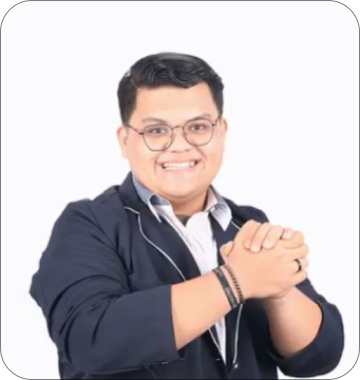
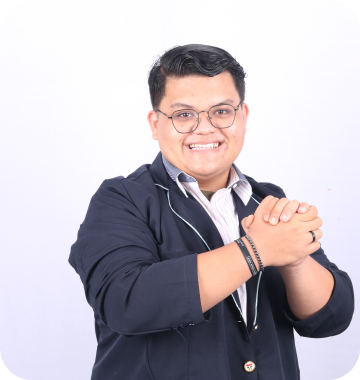
update foto kementrian

diff --git a/html/kementrian.html b/html/kementrian.html
@@ -67,7 +67,7 @@
                 </div>
                 <div class="content-box">
                     <div class="card">
-                        <img src="/assets/images/andika.jpg" alt="Andika" class="card-img-top" />
+                        <img src="/assets/images/kementrian-presma.png" alt="Andika" class="card-img-top" />
                         <div class="card-body">
                             <h5 class="card-title">VERRY BOHAL IMMANUEL SIMATUPANG</h5>
                             <p class="card-text">PRESIDEN MAHASISWA</p>
@@ -75,7 +75,7 @@
                     </div>
                     <div class="card hide"></div>
                     <div class="card">
-                        <img src="/assets/images/andika.jpg" alt="Andika" class="card-img-top" />
+                        <img src="/assets/images/kementrian-wapresma.png" alt="Andika" class="card-img-top" />
                         <div class="card-body">
                             <h5 class="card-title">BRIAN DANIEL PURBA</h5>
                             <p class="card-text">WAKIL PRESIDEN MAHASISWA</p>
@@ -84,21 +84,21 @@
 
                     <!--  -->
                     <div class="card">
-                        <img src="/assets/images/andika.jpg" alt="Andika" class="card-img-top" />
+                        <img src="/assets/images/kementrian-1.png" alt="Andika" class="card-img-top" />
                         <div class="card-body">
                             <h5 class="card-title">DIAN MAHARANI</h5>
                             <p class="card-text">SEKRETARIS KABINET 1</p>
                         </div>
                     </div>
                     <div class="card">
-                        <img src="/assets/images/andika.jpg" alt="Andika" class="card-img-top" />
+                        <img src="/assets/images/kementrian-2.png" alt="Andika" class="card-img-top" />
                         <div class="card-body">
                             <h5 class="card-title">ANNISA</h5>
                             <p class="card-text">MENTERI KOORDINATOR KEUANGAN</p>
                         </div>
                     </div>
                     <div class="card">
-                        <img src="/assets/images/andika.jpg" alt="Andika" class="card-img-top" />
+                        <img src="/assets/images/kementrian-3.png" alt="Andika" class="card-img-top" />
                         <div class="card-body">
                             <h5 class="card-title">RACHMA CAHYANINGSIH</h5>
                             <p class="card-text">BENDAHARA</p>
@@ -107,21 +107,21 @@
                     <!--  -->
 
                     <div class="card">
-                        <img src="/assets/images/andika.jpg" alt="Andika" class="card-img-top" />
+                        <img src="/assets/images/kementrian-4.png" alt="Andika" class="card-img-top" />
                         <div class="card-body">
                             <h5 class="card-title">ALFAN DIDAN SEPTIANDRI ARGANDI</h5>
                             <p class="card-text">MENTERI KOORDINATOR RELASI PUBLIK</p>
                         </div>
                     </div>
                     <div class="card">
-                        <img src="/assets/images/andika.jpg" alt="Andika" class="card-img-top" />
+                        <img src="/assets/images/kementrian-5.png" alt="Andika" class="card-img-top" />
                         <div class="card-body">
                             <h5 class="card-title">RIDHO NASHIRUDDIN</h5>
                             <p class="card-text">MENTERI KOORDINATOR PENGEMBANGAN SUMBER DAYA MANUSIA</p>
                         </div>
                     </div>
                     <div class="card">
-                        <img src="/assets/images/andika.jpg" alt="Andika" class="card-img-top" />
+                        <img src="/assets/images/kementrian-6.png" alt="Andika" class="card-img-top" />
                         <div class="card-body">
                             <h5 class="card-title">ANDY CHRYSANTO CAHYADI</h5>
                             <p class="card-text">MENTERI KOORDINATOR MEDIA DAN KOMUNIKASI</p>
@@ -130,21 +130,21 @@
                     <!--  -->
 
                     <div class="card">
-                        <img src="/assets/images/andika.jpg" alt="Andika" class="card-img-top" />
+                        <img src="/assets/images/kementrian-7.png" alt="Andika" class="card-img-top" />
                         <div class="card-body">
                             <h5 class="card-title">SHELVIA RESTI PRAMUDITA</h5>
                             <p class="card-text">MENTERI EKONOMI KREATIF</p>
                         </div>
                     </div>
                     <div class="card">
-                        <img src="/assets/images/andika.jpg" alt="Andika" class="card-img-top" />
+                        <img src="/assets/images/kementrian-8.png" alt="Andika" class="card-img-top" />
                         <div class="card-body">
                             <h5 class="card-title">AHMAD THORIQ ALFATAN</h5>
                             <p class="card-text">MENTERI ADVOKASI DAN KAJIAN AKSI STRATEGIS</p>
                         </div>
                     </div>
                     <div class="card">
-                        <img src="/assets/images/andika.jpg" alt="Andika" class="card-img-top" />
+                        <img src="/assets/images/kementrian-9.png" alt="Andika" class="card-img-top" />
                         <div class="card-body">
                             <h5 class="card-title">DIDA HAIMAN IRTSA</h5>
                             <p class="card-text">MENTERI LUAR NEGERI</p>
@@ -153,21 +153,21 @@
                     <!--  -->
 
                     <div class="card">
-                        <img src="/assets/images/andika.jpg" alt="Andika" class="card-img-top" />
+                        <img src="/assets/images/kementrian-10.png" alt="Andika" class="card-img-top" />
                         <div class="card-body">
                             <h5 class="card-title">MUHAMMAD HAIKAL FARUQ</h5>
                             <p class="card-text">MENTERI DALAM NEGERI</p>
                         </div>
                     </div>
                     <div class="card">
-                        <img src="/assets/images/andika.jpg" alt="Andika" class="card-img-top" />
+                        <img src="/assets/images/kementrian-11.png" alt="Andika" class="card-img-top" />
                         <div class="card-body">
                             <h5 class="card-title">GUSTINOV TRI SAPTO AJI</h5>
                             <p class="card-text">MENTERI KADERISASI</p>
                         </div>
                     </div>
                     <div class="card">
-                        <img src="/assets/images/andika.jpg" alt="Andika" class="card-img-top" />
+                        <img src="/assets/images/kementrian-12.png" alt="Andika" class="card-img-top" />
                         <div class="card-body">
                             <h5 class="card-title">MUHAMMAD FADHIL ZAHRAN</h5>
                             <p class="card-text">MENTERI KEBUDAYAAN</p>
@@ -176,21 +176,21 @@
                     <!--  -->
 
                     <div class="card">
-                        <img src="/assets/images/andika.jpg" alt="Andika" class="card-img-top" />
+                        <img src="/assets/images/kementrian-13.png" alt="Andika" class="card-img-top" />
                         <div class="card-body">
                             <h5 class="card-title">MARIA PASYA SARAGIH</h5>
                             <p class="card-text">MENTERI MINAT DAN BAKAT</p>
                         </div>
                     </div>
                     <div class="card">
-                        <img src="/assets/images/andika.jpg" alt="Andika" class="card-img-top" />
+                        <img src="/assets/images/kementrian-14.png" alt="Andika" class="card-img-top" />
                         <div class="card-body">
                             <h5 class="card-title">AMAR MA’RUF</h5>
                             <p class="card-text">MENTERI KOMUNIKASI DAN INFORMASI</p>
                         </div>
                     </div>
                     <div class="card">
-                        <img src="/assets/images/andika.jpg" alt="Andika" class="card-img-top" />
+                        <img src="/assets/images/kementrian-15.png" alt="Andika" class="card-img-top" />
                         <div class="card-body">
                             <h5 class="card-title">LATIFAH NURROHMAH</h5>
                             <p class="card-text">MENTERI RISET DAN TEKNOLOGI</p>

diff --git a/index.html b/index.html
@@ -209,7 +209,7 @@
                                         VERRY BOHAL IMMANUEL SIMATUPANG
                                     </h3>
                                     <span class="lead" data-aos="fade-up" data-aos-delay="600" data-aos-once="true"
-                                        >President Mahasiswa</span
+                                        >Presiden Mahasiswa</span
                                     >
                                 </div>
                                 <div class="card-text" data-aos="fade-up" data-aos-delay="700" data-aos-once="true">
@@ -235,7 +235,7 @@
                                         BRIAN DANIEL PURBA
                                     </h3>
                                     <span class="lead" data-aos="fade-up" data-aos-delay="1000"
-                                        >Wakil President Mahasiswa</span
+                                        >Wakil Presiden Mahasiswa</span
                                     >
                                 </div>
                                 <div class="card-text" data-aos="fade-up" data-aos-delay="1100" data-aos-once="true">
